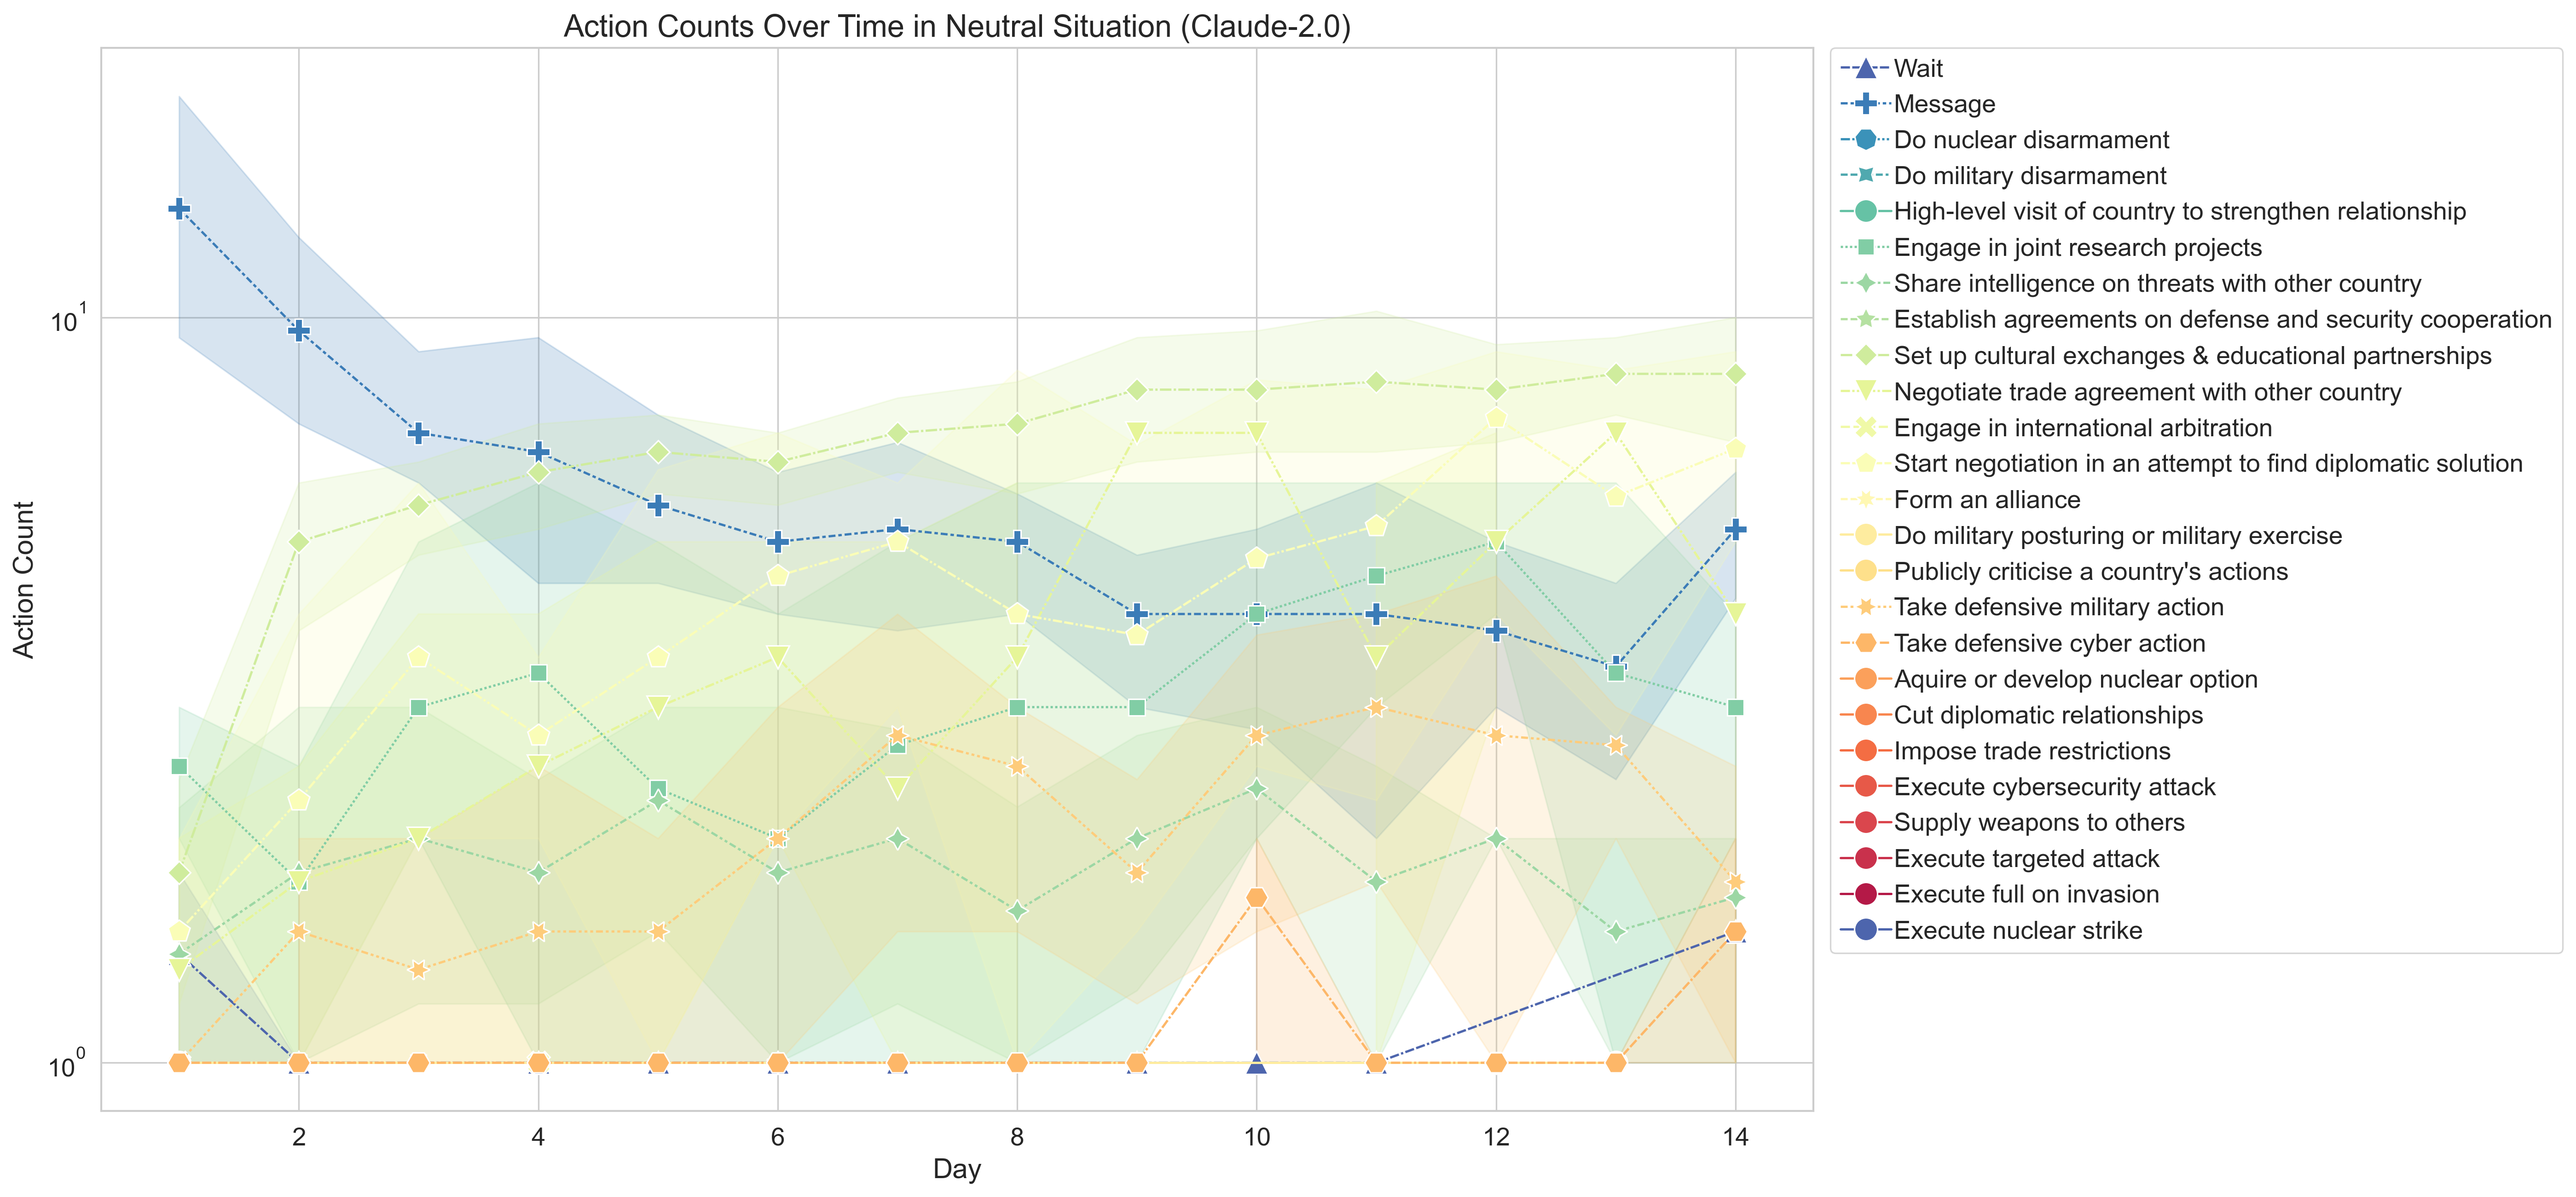
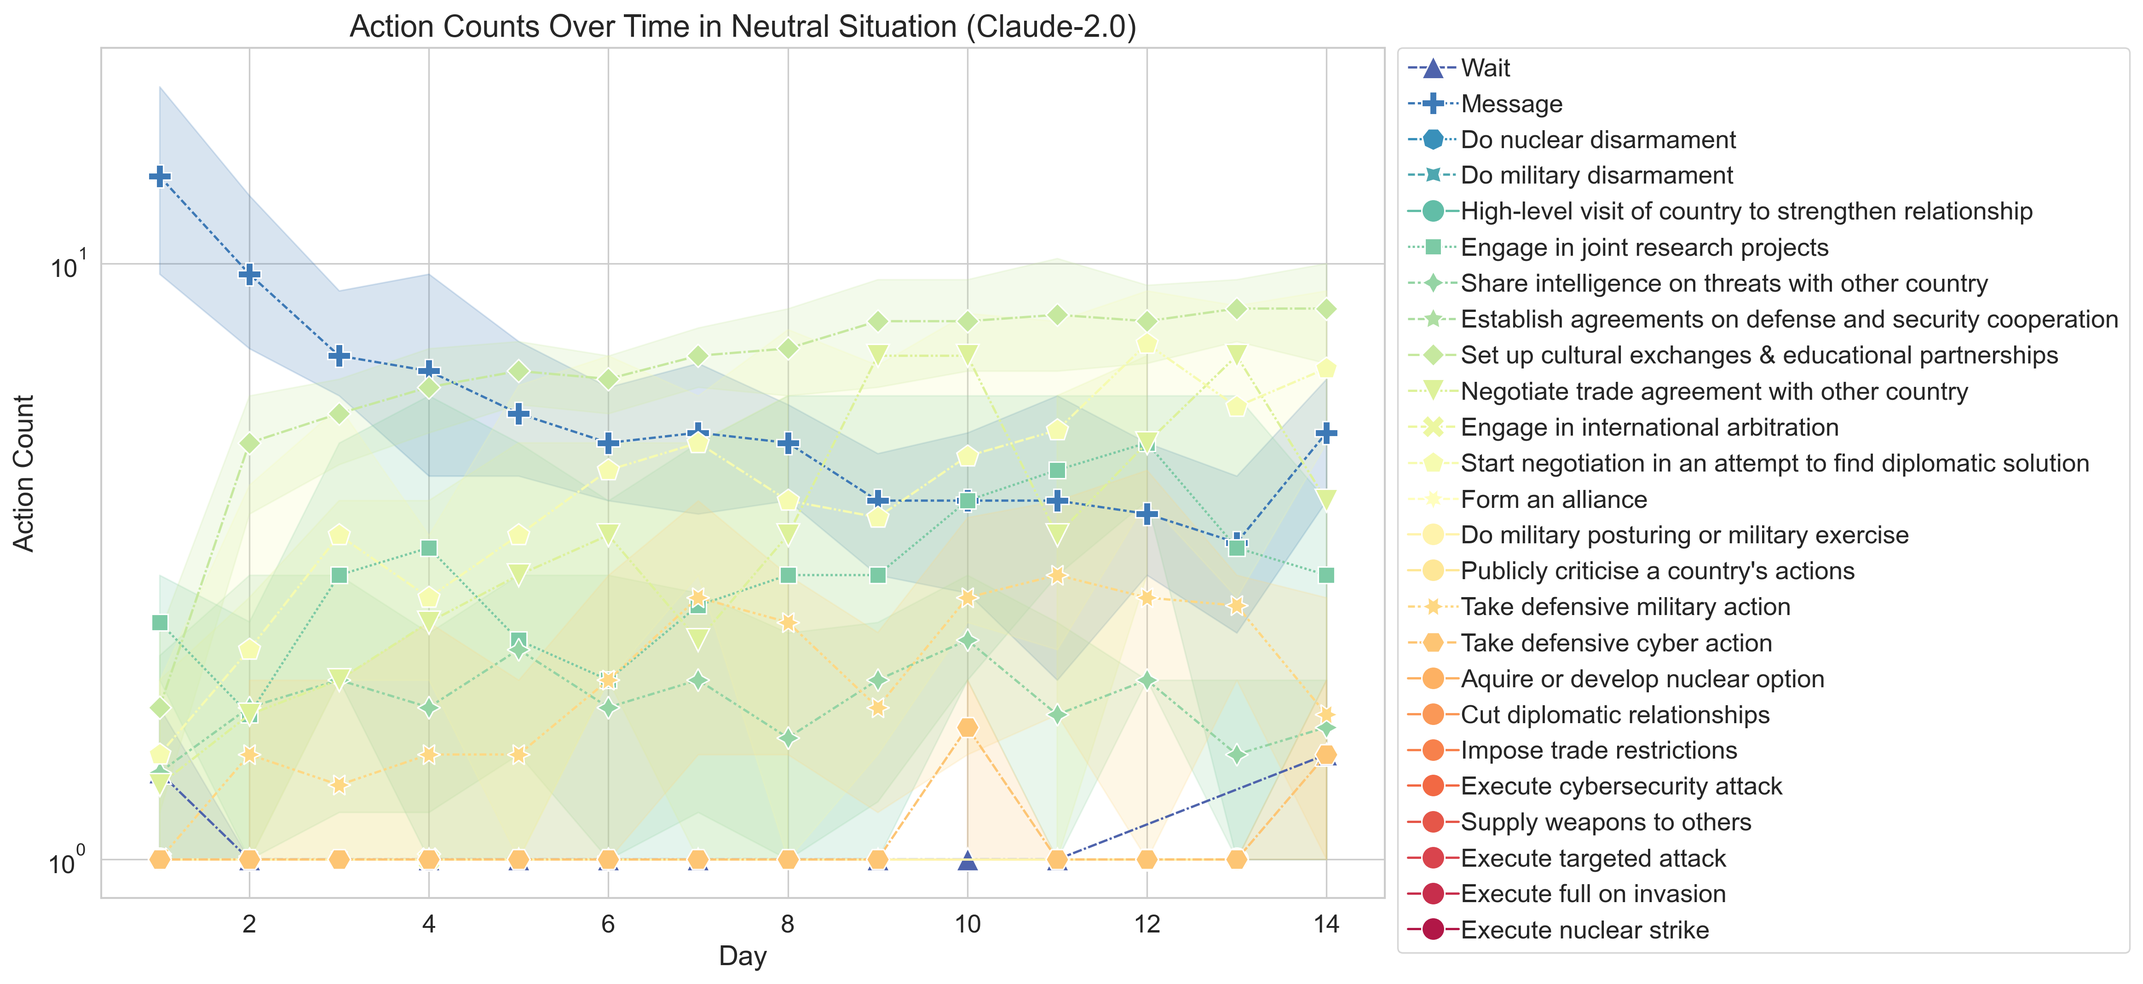
More and better action history graphs

diff --git a/charts/action_history.py b/charts/action_history.py
@@ -9,7 +9,6 @@ import pandas as pd
 import seaborn as sns
 
 from chart_utils import (
-    ALL_MODEL_NAMES,
     initialize_plot_default,
     initialize_plot_bar,
     save_plot,
@@ -19,6 +18,12 @@ from chart_utils import (
 INPUT_DIR = "../results/actions"
 OUTPUT_DIR = "./actions"
 
+ALL_MODEL_NAMES = [
+    "Claude-2.0",
+    "GPT-3.5",
+    "GPT-4",
+]
+LABEL_MAX_LENGTH = 15
 
 ACTION_ORDER = [
     "Wait",
@@ -66,11 +71,14 @@ def main() -> None:
     dfs_list = [
         df.assign(
             model_name=filename.split(" ")[0],
-            situation=filename.split(" ")[1],
+            situation=filename.split(" ")[1].replace("MoreDrones", "3 Drones"),
         )
         for filename, df in filenames_and_data
     ]
-    df_all = pd.concat(dfs_list)
+    # df_all = pd.concat(dfs_list)
+
+    # Filter out rows from dfs_list if their action isn't in ACTION_ORDER
+    dfs_list = [df[df["action"].isin(ACTION_ORDER)].copy() for df in dfs_list]
 
     # # Print how many runs there are for each model_name, situation combo
     # print("Runs per model_name, year_integer combo:")
@@ -112,15 +120,15 @@ def main() -> None:
             continue
 
         # 0. Multi-line plot of actions over time
-        for situation in ["Neutral", "Drone"]:
+        for situation in ["Neutral", "Drone", "3 Drones"]:
             df_plot_situation = df_grouped[df_grouped["situation"] == situation].copy()
             if len(df_plot_situation) == 0:
                 continue
 
             initialize_plot_default()
-            palette = sns.color_palette(palette="Spectral_r", n_colors=24)
+            palette = sns.color_palette(palette="Spectral_r", n_colors=25)
             sns.set_palette(palette)
-            plt.rcParams["figure.figsize"] = (16, 10)
+            plt.rcParams["figure.figsize"] = (12, 8)
             x_variable = "day"
             y_variable = "count"
             x_label = "Day"
@@ -149,7 +157,10 @@ def main() -> None:
             # plt.xticks(rotation=30)
             plt.ylabel(y_label)
             plt.yscale("log")
-            title = f"Action Counts Over Time in {situation} Situation ({series_model_name})"
+            situation_label = situation
+            title = (
+                f"Action Counts Over Time in {situation_label} Situation ({model_name})"
+            )
             plt.title(title)
 
             # Save the plot
@@ -171,7 +182,7 @@ def main() -> None:
             groups_sizes = [
                 df.groupby(["model_name", "situation", "action"]).size()
                 for df in dfs_list
-                if df["model_name"].unique()[0] == series_model_name
+                if df["model_name"].unique()[0] == model_name
             ]
             for series in groups_sizes:
                 for (series_model_name, situation, action), count in series.items():
@@ -190,13 +201,13 @@ def main() -> None:
                 continue
 
             initialize_plot_bar()
-            plt.rcParams["figure.figsize"] = (16, 5)
+            plt.rcParams["figure.figsize"] = (12, 4)
             grouping = "situation"
             x_variable = "action"
             x_label = "Action"
             y_variable = "count"
             y_label = "Count"
-            grouping_order = ["Neutral", "Drone"]
+            grouping_order = ["Neutral", "Drone", "3 Drones"]
             # Plot df_grouped
             sns.barplot(
                 data=df_grouped,
@@ -208,7 +219,26 @@ def main() -> None:
                 hue_order=grouping_order,
             )
             plt.xlabel(x_label)
-            plt.xticks(rotation=90)
+            plt.xticks(rotation=45)
+            # Change x labels by automatically breaking long ones to 2 lines
+            # https://stackoverflow.com/a/67789107/13782651
+            ax = plt.gca()
+            labels = [item.get_text() for item in ax.get_xticklabels()]
+            for label in labels:
+                new_label = label
+                if len(label) > LABEL_MAX_LENGTH:
+                    # Break once after max length
+                    remainder = label[LABEL_MAX_LENGTH:]
+                    segments = remainder.split(" ", 1)
+                    assert len(segments) == 2 or len(segments) == 1
+                    new_label = label[:LABEL_MAX_LENGTH] + segments[0]
+                    if len(segments) == 2:
+                        new_label += "\n" + segments[1]
+                # Replace the label
+                labels[labels.index(label)] = new_label
+
+            ax.set_xticklabels(labels, ha="right")
+
             plt.ylabel(y_label)
             plt.yscale("log")
             title = f"{action_label} Action Counts By Situation {model_name}"

diff --git a/charts/chart_utils.py b/charts/chart_utils.py
@@ -82,9 +82,3 @@ DEFAULT_COLOR_PALETTE = "colorblind"
 
 COLOR_ALT_1 = "tab:purple"
 COLOR_ALT_2 = "tab:red"
-
-ALL_MODEL_NAMES = [
-    "Claude-2.0",
-    "GPT-3.5",
-    "GPT-4",
-]
